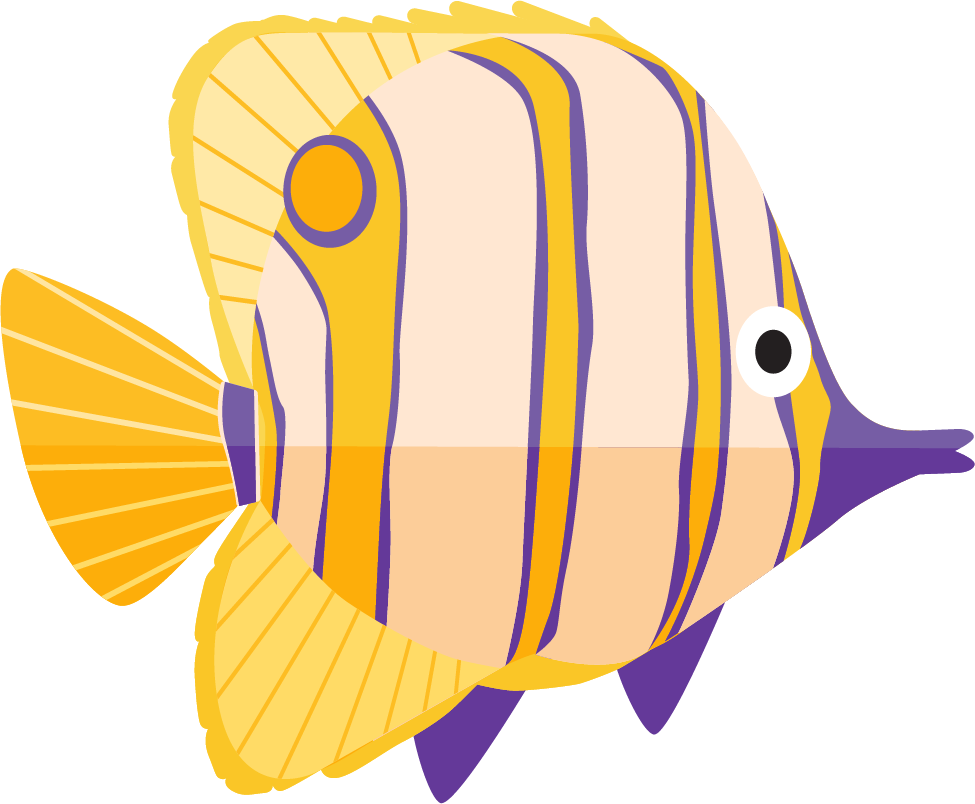
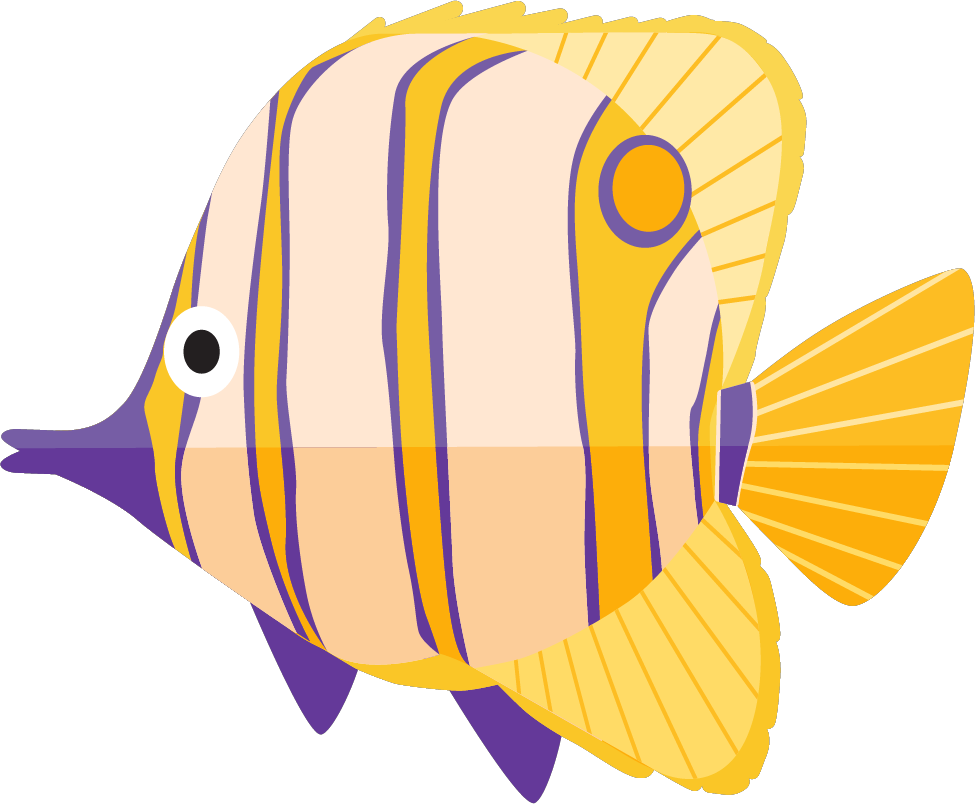
agregé otro pez

diff --git a/frontend/src/modules/auth/styles/_LoginPage.scss b/frontend/src/modules/auth/styles/_LoginPage.scss
@@ -34,6 +34,27 @@
       width: 100px;
       animation: pez3 20s linear infinite;
     }
+
+    &:nth-child(4) {
+      right: 10px;
+      bottom: 10px;
+      width: 100px;
+      animation: pez4 60s linear infinite;
+    }
+
+    &:nth-child(5) {
+      left: -120px;
+      top: -100px;
+      width: 120px;
+      animation: pez5 50s linear infinite;
+    }
+
+    &:nth-child(6) {
+      left: 120px;
+      top: 100px;
+      width: 120px;
+      animation: pez6 30s linear infinite;
+    }
   }
 
 
@@ -97,6 +118,27 @@
 
   100% {
     transform: translate(2000px, 100px);
+  }
+}
+
+@keyframes pez4 {
+
+  100% {
+    transform: translate(-3000px, -600px);
+  }
+}
+
+@keyframes pez5 {
+
+  100% {
+    transform: translate(3000px, 600px);
+  }
+}
+
+@keyframes pez6 {
+
+  100% {
+    transform: translate(3000px, -100px);
   }
 }
 

diff --git a/frontend/src/modules/auth/index.tsx b/frontend/src/modules/auth/index.tsx
@@ -16,10 +16,14 @@ const LoginPage = () => {
         <img className="pez" src={require('../../assets/img/pez1.png')} alt=""/>
         <img className="pez" src={require('../../assets/img/pez4.png')} alt=""/>
         <img className="pez" src={require('../../assets/img/pez5.png')} alt=""/>
+        <img className="pez" src={require('../../assets/img/pez9.png')} alt=""/>
+        <img className="pez" src={require('../../assets/img/pezRosa.png')} alt=""/>
+
         <div className="login">
           <img  src={require('../../assets/img/pulpo2.png')} alt="" width="300"/>
           <button className="btn-login"  onClick={logIn}>Inicar sesión con correo institucional</button>
         </div>
+        
       </section>
 
     </main>
